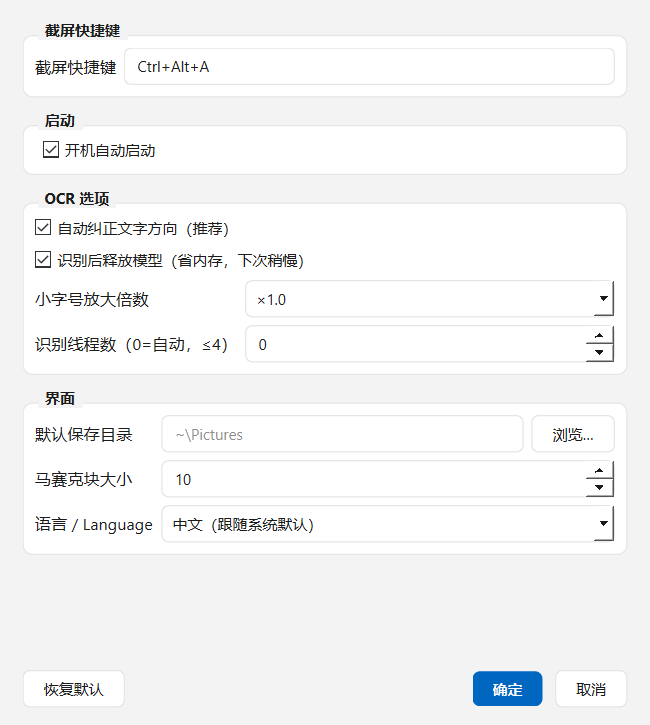
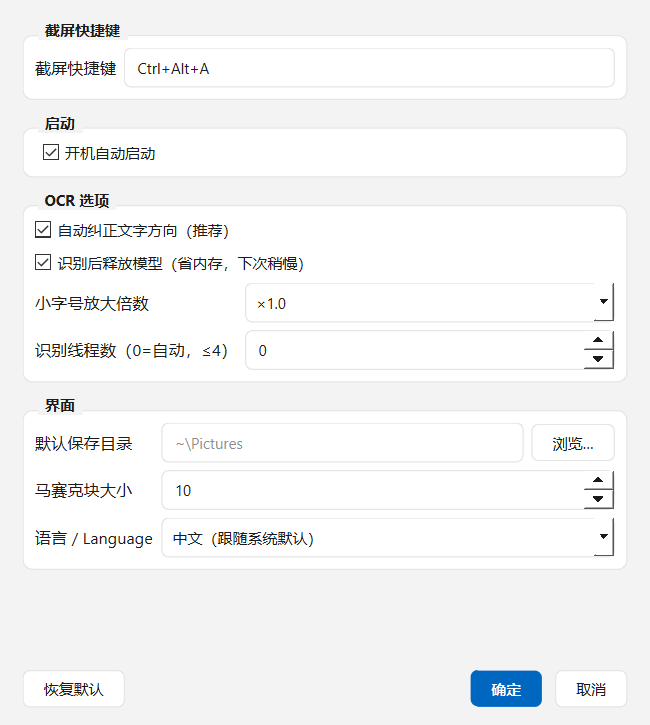
fix(ui): project-wide widget height alignment sweep

diff --git a/src/snapocr/ui/theme.py b/src/snapocr/ui/theme.py
@@ -235,7 +235,8 @@ QPlainTextEdit { background: %(card)s; border: 1px solid %(border)s;
 QPushButton { background: %(card)s; border: 1px solid %(border)s; border-radius: 6px;
               padding: 6px 14px; font-size: 13px; color: %(text)s; }
 QPushButton:hover { background: %(hover)s; }
-QPushButton#primary { background: %(accent)s; border: none; color: %(on_acc)s; font-weight: 600; }
+QPushButton#primary { background: %(accent)s; border: 1px solid transparent;
+                     color: %(on_acc)s; font-weight: 600; }
 QPushButton#primary:hover { background: %(accent_h)s; }
 """ % {
         "bg": t.bg,
@@ -260,7 +261,7 @@ QGroupBox::title { subcontrol-origin: margin; left: 12px; padding: 0 4px;
                    color: %(text)s; background: %(bg)s; }
 QLineEdit, QSpinBox, QComboBox { background: %(card)s; color: %(text)s;
                                  border: 1px solid %(border)s; border-radius: 6px;
-                                 padding: 5px 8px; }
+                                 padding: 5px 8px; min-height: 20px; }
 QLineEdit:hover, QSpinBox:hover, QComboBox:hover { border-color: %(sub)s; }
 QComboBox QAbstractItemView { background: %(card)s; color: %(text)s;
                               selection-background-color: %(accent)s;
@@ -268,7 +269,8 @@ QComboBox QAbstractItemView { background: %(card)s; color: %(text)s;
 QPushButton { background: %(card)s; border: 1px solid %(border)s; border-radius: 6px;
               padding: 6px 16px; color: %(text)s; }
 QPushButton:hover { background: %(hover)s; }
-QPushButton#primary { background: %(accent)s; border: none; color: %(on_acc)s; font-weight: 600; }
+QPushButton#primary { background: %(accent)s; border: 1px solid transparent;
+                     color: %(on_acc)s; font-weight: 600; }
 QPushButton#primary:hover { background: %(accent_h)s; }
 QCheckBox { color: %(text)s; }
 """ % {

diff --git a/scripts/probes/round33_suite.py b/scripts/probes/round33_suite.py
@@ -779,3 +779,41 @@ def run(ctx):
     )
     tbh.deleteLater()
     check("Z4 行B下拉高度与按钮齐平(34px)", z4)
+
+    # ---- Z5 全项目控件高度对齐清查（2026-10-26 举一反三） ----
+    from snapocr.ui.preview_dialog import PreviewDialog as _PV
+    from snapocr.ui.settings_dialog import SettingsDialog as _SD
+
+    tbz5 = EditorToolbar()
+    tbz5.show()
+    tbz5.set_expanded(True, animate=False)
+    app.processEvents()
+    # 行A：编辑按钮(有图标)与纯文字按钮等高
+    za = tbz5.btn_edit.height() == tbz5.btn_cancel.height()
+    # 行B：下拉与工具按钮等高
+    zb = tbz5.font_combo.height() == tbz5._tool_buttons["pen"].height()
+    tbz5.deleteLater()
+    app.processEvents()
+
+    imgz = QImage(60, 40, QImage.Format_RGB888)
+    imgz.fill(Qt.gray)
+    pvz = _PV(imgz, ctx.cfg)
+    pvz.show()
+    app.processEvents()
+    # 预览窗：primary 按钮与普通按钮等高（border:none → border:1px transparent 修复）
+    zp = pvz.btn_copy.height() == pvz.btn_save.height()
+    pvz.close()
+    pvz.deleteLater()
+    app.processEvents()
+
+    sdz = _SD(ctx.cfg)
+    sdz.show()
+    app.processEvents()
+    # 设置页：combo 与 line edit 等高（QSS min-height 修复）
+    zs = sdz.scale_combo.height() == sdz.dir_edit.height()
+    # 设置页按钮等高
+    zs2 = sdz.btn_ok.height() == sdz.btn_cancel.height()
+    sdz.close()
+    sdz.deleteLater()
+    app.processEvents()
+    check("Z5 全项目高度对齐(行A/行B/预览/设置)", za and zb and zp and zs and zs2)

diff --git a/src/snapocr/ui/preview_dialog.py b/src/snapocr/ui/preview_dialog.py
@@ -83,7 +83,7 @@ class PreviewDialog(QWidget):
                           border-radius: 6px; padding: 6px 14px; color: %(text)s; }
             QPushButton:hover { background: %(hover)s; }
             QPushButton:disabled { color: %(sub)s; }
-            QPushButton#primary { background: %(accent)s; border: none;
+            QPushButton#primary { background: %(accent)s; border: 1px solid transparent;
                                   color: %(on_acc)s; font-weight: 600; }
             QPushButton#primary:hover { background: %(accent_h)s; }
         """

diff --git a/src/snapocr/ui/editor.py b/src/snapocr/ui/editor.py
@@ -137,6 +137,9 @@ class EditorToolbar(QWidget):
         self.btn_edit.setCheckable(True)
         self.btn_edit.setProperty("textBtn", True)
         self.btn_edit.setToolButtonStyle(Qt.ToolButtonTextBesideIcon)
+        # 图标约束到 16px + 固定高：图标按钮自然高度(29)比行 A 纯文字按钮(26)高 3px
+        self.btn_edit.setIconSize(QSize(16, 16))
+        self.btn_edit.setFixedHeight(26)
         self.btn_edit.clicked.connect(lambda: self.editToggled.emit(self.btn_edit.isChecked()))
         rowA.addWidget(self.btn_edit)
 
